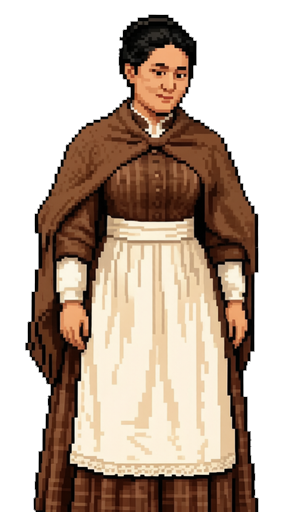
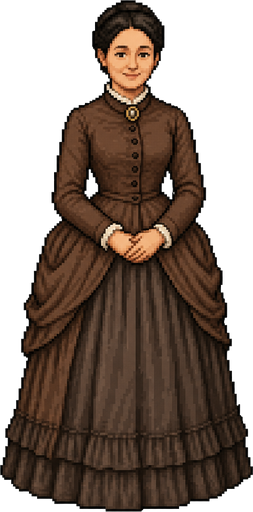
feat(美术) 更换赫德森太太立绘（对话半身像+全身像）
Coze-Commit-Type: user
Coze-User-ID: 1065887343319849
Coze-Conversation-ID: 10830780

diff --git a/godot_project/web_build/index.html b/godot_project/web_build/index.html
@@ -111,7 +111,7 @@ body {
 
 		<script src="index.js"></script>
 		<script>
-const GODOT_CONFIG = {"args":[],"canvasResizePolicy":2,"emscriptenPoolSize":8,"ensureCrossOriginIsolationHeaders":true,"executable":"index","experimentalVK":false,"fileSizes":{"index.pck":69252372,"index.wasm":39513091},"focusCanvas":true,"gdextensionLibs":[],"godotPoolSize":4};
+const GODOT_CONFIG = {"args":[],"canvasResizePolicy":2,"emscriptenPoolSize":8,"ensureCrossOriginIsolationHeaders":true,"executable":"index","experimentalVK":false,"fileSizes":{"index.pck":69261220,"index.wasm":39513091},"focusCanvas":true,"gdextensionLibs":[],"godotPoolSize":4};
 const GODOT_THREADS_ENABLED = false;
 const engine = new Engine(GODOT_CONFIG);
 

diff --git a/AGENTS.md b/AGENTS.md
@@ -292,6 +292,7 @@ NO other objects, isolated, game asset
 - Godot 项目需要 Compatibility 渲染器以支持 Web 导出
 - **Git 提交策略**：不用每次都向 GitHub 提交，在进行一个阶段的工作后再集中进行提交
 - **图片预览规则**：禁止让用户通过 GitHub 链接查看图片。生成的图片必须直接在对话中展示给用户（使用 generate_image 工具或提供可直接访问的 URL），不要让用户去 GitHub、本地拉取或启动预览服务查看
+- **用户上传图片落点（2026-09-03 确认）**：对话中用户上传的图片文件会存入 `/workspace/projects/assets/`（文件名常带 `_时间戳` 副本，内容相同）；不要凭 find 时间过滤断言"图片不在环境里"，先直接 `ls assets/` 查中文名文件
 - **台词库括号内容规则**：台词库（08_血字的研究_对话台词库.md 等）中人名/台词内的小括号内容（如 `（上下打量华生，停顿2秒，特写）`）仅是给游戏设计使用的演出指示，**不展示在游戏对话台词中**；开发对话渲染/台词导入时必须过滤剔除小括号段，不得原样上屏
 
 ## 本地开发环境
